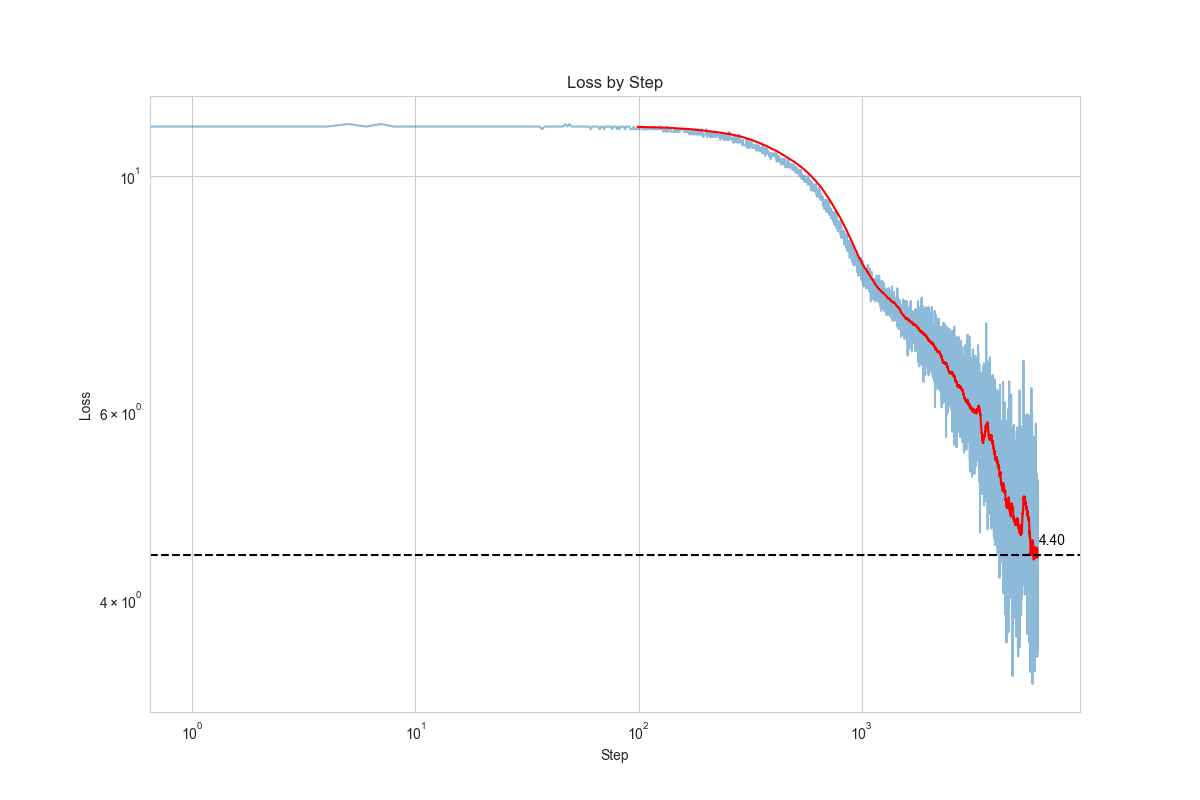
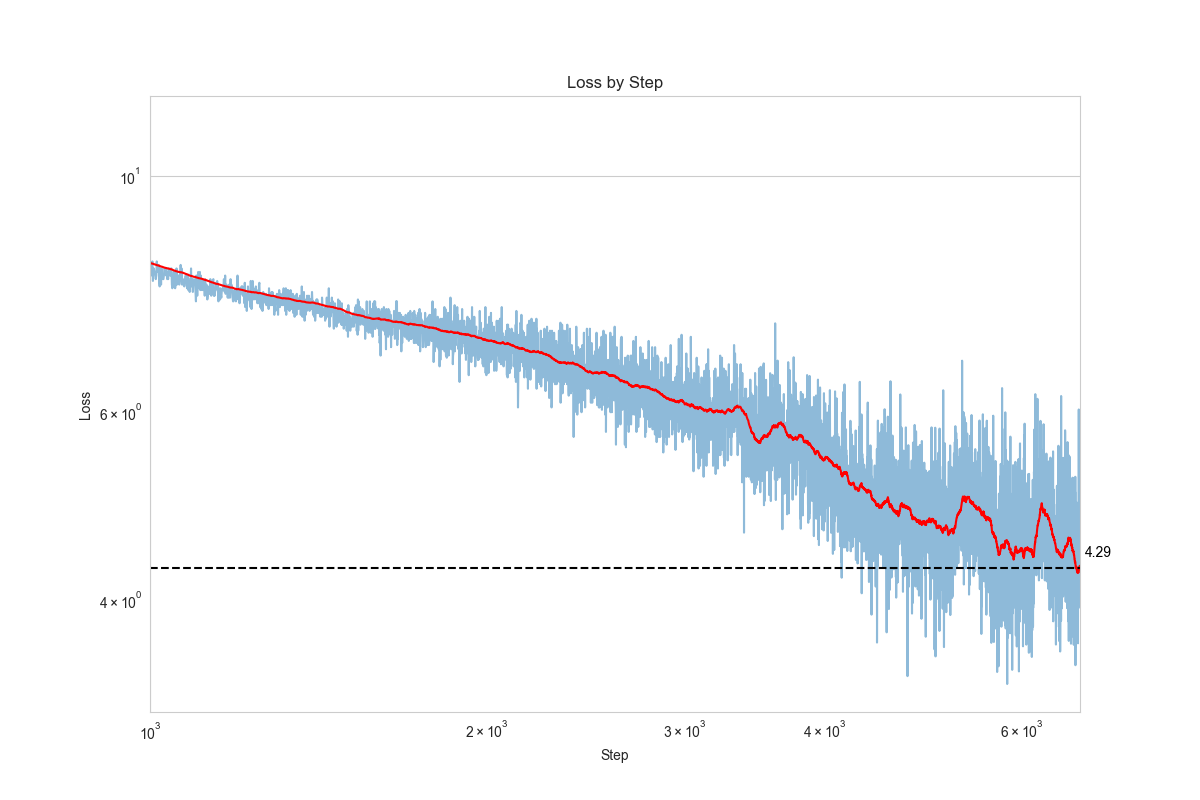
better `describe` plot defaults

diff --git a/kl3m_embeddings/embeddings/describe.py b/kl3m_embeddings/embeddings/describe.py
@@ -7,7 +7,6 @@ import argparse
 import json
 from pathlib import Path
 
-
 # packages
 import matplotlib.pyplot as plt
 import polars as pl
@@ -81,12 +80,13 @@ def calculate_statistics(df: pl.DataFrame) -> pl.DataFrame:
     )
 
 
-def plot_loss_by_step(df: pl.DataFrame) -> Path:
+def plot_loss_by_step(df: pl.DataFrame, x_min: int = 1000) -> Path:
     """
     Plot the loss by step.
 
     Args:
         df (pl.DataFrame): The training log data.
+        x_min (int): The minimum x-axis value to plot.
 
     Returns:
         Path: The path to the plot.
@@ -105,6 +105,10 @@ def plot_loss_by_step(df: pl.DataFrame) -> Path:
     loss_data = df.select(["step", "loss"]).to_pandas()
     loss_data["moving_avg"] = loss_data["loss"].rolling(100).mean()
     sns.lineplot(x="step", y="moving_avg", data=loss_data, color="red")
+
+    # check if we have at least x_min steps
+    if loss_data["step"].iloc[-1] > x_min:
+        plt.xlim(x_min, loss_data["step"].iloc[-1])
 
     # make it log log via axes
     plt.yscale("log")
@@ -128,12 +132,13 @@ def plot_loss_by_step(df: pl.DataFrame) -> Path:
     return plot_path
 
 
-def plot_step_time_components(df: pl.DataFrame) -> Path:
+def plot_step_time_components(df: pl.DataFrame, y_max_qt: float = 0.99) -> Path:
     """
     Plot the step time components.
 
     Args:
         df (pl.DataFrame): The training log data.
+        y_max_qt (float): The quantile to use for the y-axis max value.
 
     Returns:
         Path: The path to the plot.
@@ -152,6 +157,10 @@ def plot_step_time_components(df: pl.DataFrame) -> Path:
     plt.xlabel("Step")
     plt.ylabel("Time (seconds)")
     plt.legend(loc="upper left", bbox_to_anchor=(1, 1))
+
+    # set the y max to the quantile value of the sums plus 10% headspace
+    qt_value = step_time_data.sum(axis=1).quantile(y_max_qt)
+    plt.ylim(0, qt_value * 1.1)
 
     # save the plot
     plot_path = Path("step_time_components.png")
